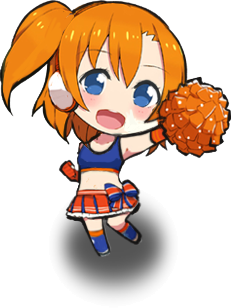
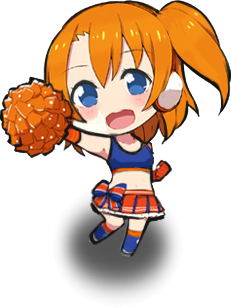
two side cheer

diff --git a/js/main.js b/js/main.js
@@ -11,7 +11,8 @@ if (!isWeixinBrowser()) {
 var canvasContainer, GameStatus = 0; //游戏状态(-1未开始，0进行中，1暂停，2碰撞，3已结束)
 var player, shadow, monsters = [],
     asideMiles = [],
-    asideCheers = [];
+    asideCheers = [],
+    asideCheers2 = [];
 var winWidth, winHeight, isGuide = false;
 var startTouchPoint, touchCacheX = 0.15,
     touchCacheY = 0.2;
@@ -170,10 +171,11 @@ var loop = function() {
     if (GameStatus != 3) {
         shadow.update();
         player.update();
-        if (GameStatus != 2) {
+        if (GameStatus != 1) {
             renderMonster();
             renderAsideMile();
             renderAsideCheer();
+            renderAsideCheer2();
             GAME.updateChildren();
         }
         requestAnimationFrame(loop);
@@ -261,15 +263,37 @@ var renderAsideCheer = function() {
     }
     if (!nextAsideCheer) {
         nextCheerTime = currTime + stepLength / 4;
-        var temp = new AsideCheer(cheerIndex % 2 == 0 ? 1 : 2, 90, 160, cheerIndex);
+        var temp = new AsideCheer(cheerIndex % 2 == 0 ? 1 : 2, 1, 90, 160, cheerIndex);
         temp.setAnchorPoint(1, 1);
-        var x = getRoundVal(0, 1) === 0 ? 15 : -15;
+        var x = getRoundVal(0, 1) === 0 ? 0 : -20;
         temp.setPosition(x, winHeight);
         asideCheers[cheerIndex] = temp;
         nextAsideCheer = true;
     }
     for (var key in asideCheers) {
         asideCheers[key].update();
+    }
+};
+var nextAsideCheer2 = false,
+    cheerIndex2 = 1,
+    nextCheerTime2 = 0;
+// 顺序加载数字
+var renderAsideCheer2 = function() {
+    if (currTime >= nextCheerTime2 && nextAsideCheer2) {
+        nextAsideCheer2 = false;
+        cheerIndex2++;
+    }
+    if (!nextAsideCheer2) {
+        nextCheerTime2 = currTime + stepLength / 4;
+        var temp = new AsideCheer(cheerIndex2 % 2 == 0 ? 3 : 4, 2, 90, 160, cheerIndex2);
+        temp.setAnchorPoint(0, 1);
+        var x = getRoundVal(0, 1) === 0 ? 20 : 0;
+        temp.setPosition(winWidth + x, winHeight);
+        asideCheers2[cheerIndex2] = temp;
+        nextAsideCheer2 = true;
+    }
+    for (var key in asideCheers2) {
+        asideCheers2[key].update();
     }
 };
 //========================================================================//

diff --git a/js/player.js b/js/player.js
@@ -320,8 +320,11 @@ Monster.prototype.crash = function() {
             if (isPlayMusic) {
                 musicCrash.play();
             }
-            DF.M.moveSpeed = winHeight * 0.001;
+            DF.M.moveSpeed = winHeight * 0.003;
             GameStatus = 2;
+            nextMileTime += 1000;
+            nextCheerTime += 1000;
+            nextCheerTime2 += 1000;
             setTimeout(function() {
                 DF.M.moveSpeed = winHeight * 0.009;
                 GameStatus = 0;
@@ -360,9 +363,10 @@ AsideMile.prototype.move = function() {
 //======================== :: AsideMile :: ===============================//
 //========================================================================//
 // 创建
-var AsideCheer = function(type, width, height, index) {
-    GAME.Sprite.apply(this, ['jiayou' + index, 'images/jiayou_' + type + '.png', width, height, index]);
+var AsideCheer = function(type, pathIndex, width, height, index) {
+    GAME.Sprite.apply(this, ['jiayou_' + pathIndex + '_' + index, 'images/jiayou_' + type + '.png', width, height, index]);
     this.k = Math.abs((getScaleX(xA) - getScaleX(3)) / (winHeight - getScaleY(yl)));
+    this.pathIndex = pathIndex;
     this.index = index;
 };
 //更新位置
@@ -372,10 +376,21 @@ AsideCheer.prototype.update = function(target) {
 //MOVE
 AsideCheer.prototype.move = function() {
     var x, y;
-    x = this.getPositionX() + DF.M.moveSpeed / 3 * 2 * this.k;
+    switch (this.pathIndex) {
+        case 1:
+            x = this.getPositionX() + DF.M.moveSpeed / 3 * 2 * this.k;
+            break;
+        case 2:
+            x = this.getPositionX() - DF.M.moveSpeed / 3 * 2 * this.k;
+            break;
+    }
     y = this.getPositionY() - DF.M.moveSpeed / 3 * 2;
     if (winHeight - this.getPositionY() > DF.M.maxPathMile) {
-        delete asideCheers[this.index];
+        if (this.pathIndex == 1) {
+            delete asideCheers[this.index];
+        } else {
+            delete asideCheers2[this.index];
+        }
         this.removeFromGlobal();
     } else {
         var ks = DF.M.scaleMile + (this.getPositionY() - getScaleY(yl)) * (1 - DF.M.scaleMile) / getScaleY(HEIGHT - yl);
